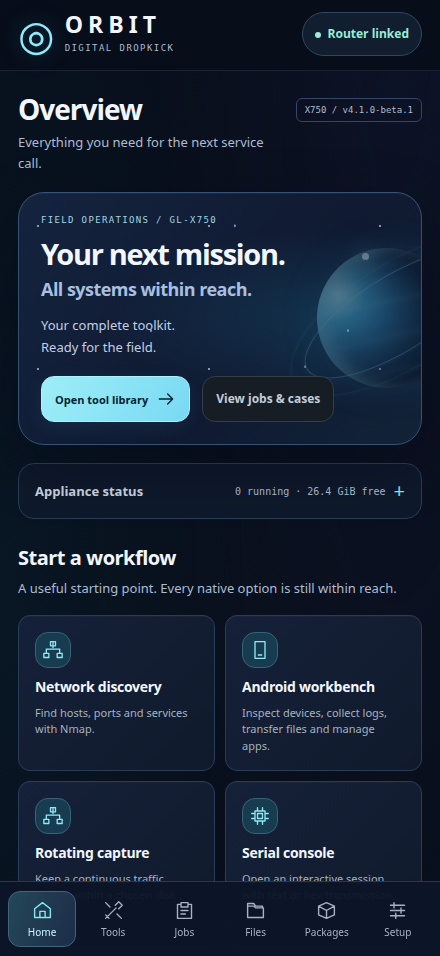
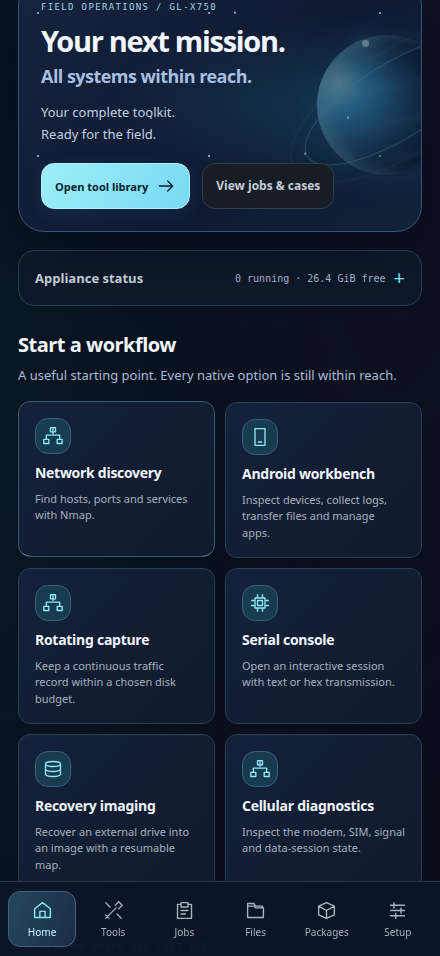
docs: record live Orbit preview verification and native prerequisites

diff --git a/docs/ORBIT-BETA.md b/docs/ORBIT-BETA.md
@@ -1,6 +1,7 @@
 # Orbit companion beta
 
-Router presentation: **4.1.0-beta.1**. Native companion source: **0.1.0**.
+Router presentation: **4.1.0-beta.1**. Native companion source: **0.1.0**,
+prepared in the local `feature/orbit-companion` branch and not yet published.
 Baseline: verified router/dashboard v4.0.1 at `be0cf24`.
 
 ## Use the phone preview
@@ -19,6 +20,8 @@ does not include native Keychain/Face ID login. Session expiry requires signing
 in again. Keep the phone connected to the router's Wi-Fi, or use Tailscale when
 both devices have internet access. Local router tools work without an internet
 uplink when the router can reach their target.
+
+![Orbit, rendered in Chrome at iPhone-sized dimensions](screenshots/orbit-overview-iphone.png)
 
 Orbit is opt-in. The ordinary `/ddk` dashboard keeps its default appearance.
 Choose the connection badge and **Use dashboard appearance**, or append
@@ -50,9 +53,23 @@ forms; search/favorites; Android controls; and typed file handoffs. Real loopbac
 Nmap, continuous fping, stop/save/export, text/artifact download, file reuse and
 inline upload passed. Test-created jobs and inputs were cleaned up.
 
-Additional phone checks cover status expansion, the connection dialog, modal
-isolation, offline/reconnect behavior, readable input sizing and visible starting
-workflows. Final deployment evidence will be appended after live verification.
+Additional phone checks passed for status expansion, the connection dialog,
+modal isolation, offline/reconnect behavior, readable input sizing and visible
+starting workflows.
+
+The committed router application from `d1f0808` was deployed and verified live:
+
+- 62 installed application files match source SHA-256.
+- Nine protected configuration files, 39 listeners and existing application
+  data remain unchanged. GL.iNet, LuCI, Tailscale, extroot and swap are healthy.
+- The full Orbit browser suite passed on the installed assets, without asset
+  interception: 20 page/viewport checks, all 78 forms, the extra phone checks,
+  and the real job/file/case workflows described above.
+- The ordinary dashboard also passed all five pages at 1440, 390 and 320px.
+- Transient browser sessions were destroyed and verification data cleaned up.
+
+Local evidence: `/tmp/ddk-orbit-audit/release-local.log`, `browser-live.log`,
+`browser-standard-layout.log`, `deploy.log`, and `final-router-audit.log`.
 
 The native SwiftUI/WKWebView source has been prepared with HTTPS certificate
 binding, Keychain sign-in, device unlocking and streamed download sharing.
@@ -80,3 +97,22 @@ The normal installer backs up every replaced file and tracks new Orbit assets.
 Use the printed backup directory with `rollback.sh` to restore v4.0.1 and remove
 the newly installed assets. Saved cases and inputs remain on the router. Native
 source and cloud-build preparation do not change router networking or services.
+
+This deployment's rollback is:
+
+```sh
+DDK_TARGET=root@100.122.115.85 \
+DDK_SSH_CONTROL_PATH=/run/user/1000/ddk-router-1000/control \
+./rollback.sh /root/ddk-backups/20260914T012901Z-field-console-v4
+```
+
+## Remaining native steps
+
+1. Reauthorize GitHub's existing CLI login with `gh auth refresh -h github.com
+   -s workflow`. The rejected workflow upload did not create a cloud build.
+2. Publish the native work branch and run its macOS compiler, unit tests and
+   simulator UI test. Resolve any SDK-specific failures before signing.
+3. Establish the user's Apple signing arrangement and create a beta restricted
+   to the intended iPhone. No enrollment or paid service was purchased.
+4. Verify real-device sign-in, Face ID/passcode, local and Tailscale routes,
+   interrupted sessions, Files imports/exports and hardware workflows.
